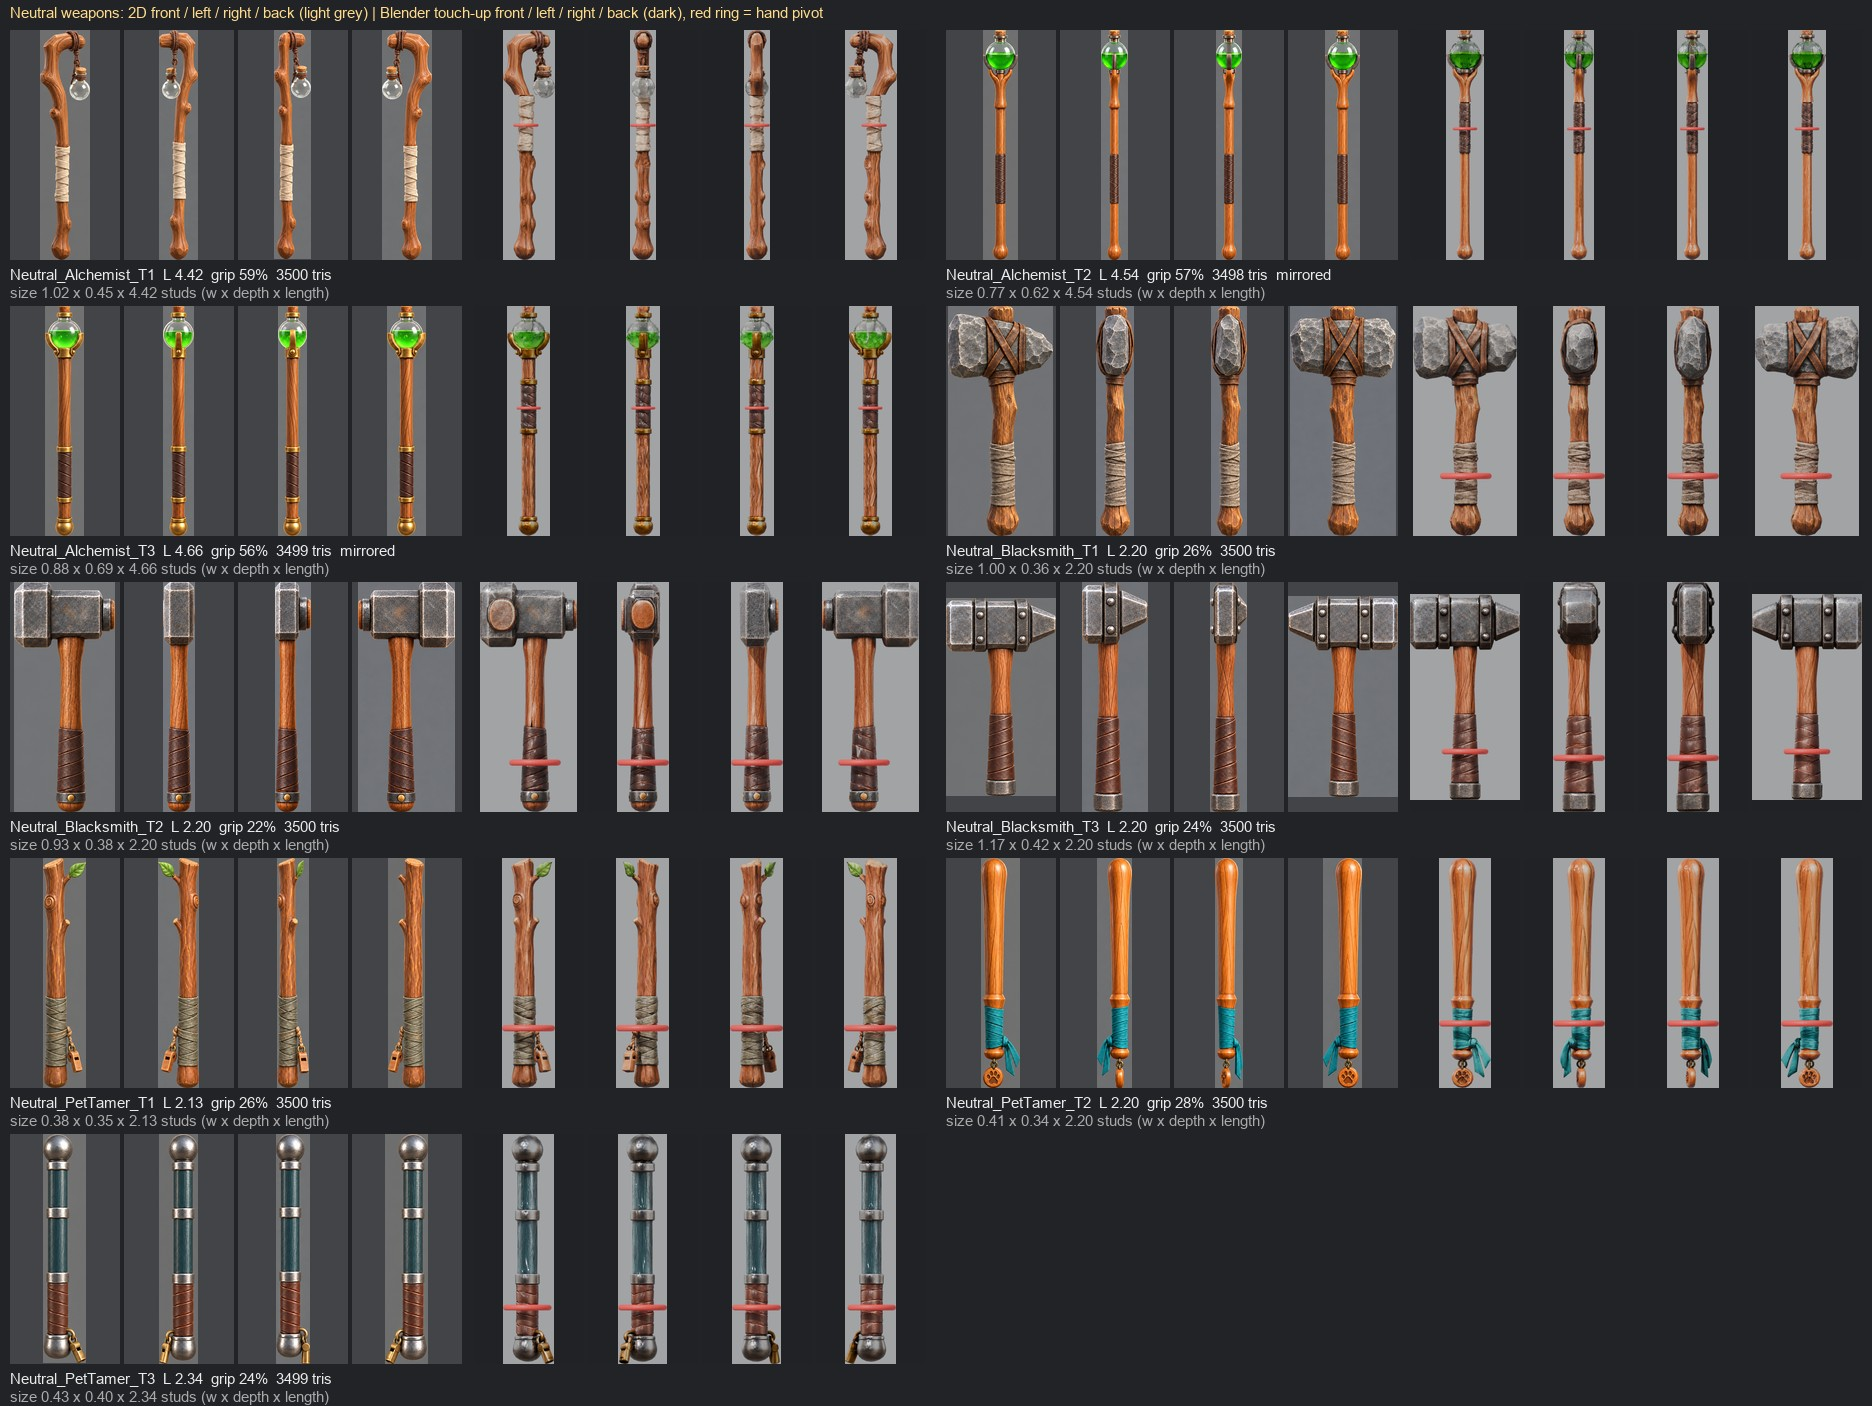
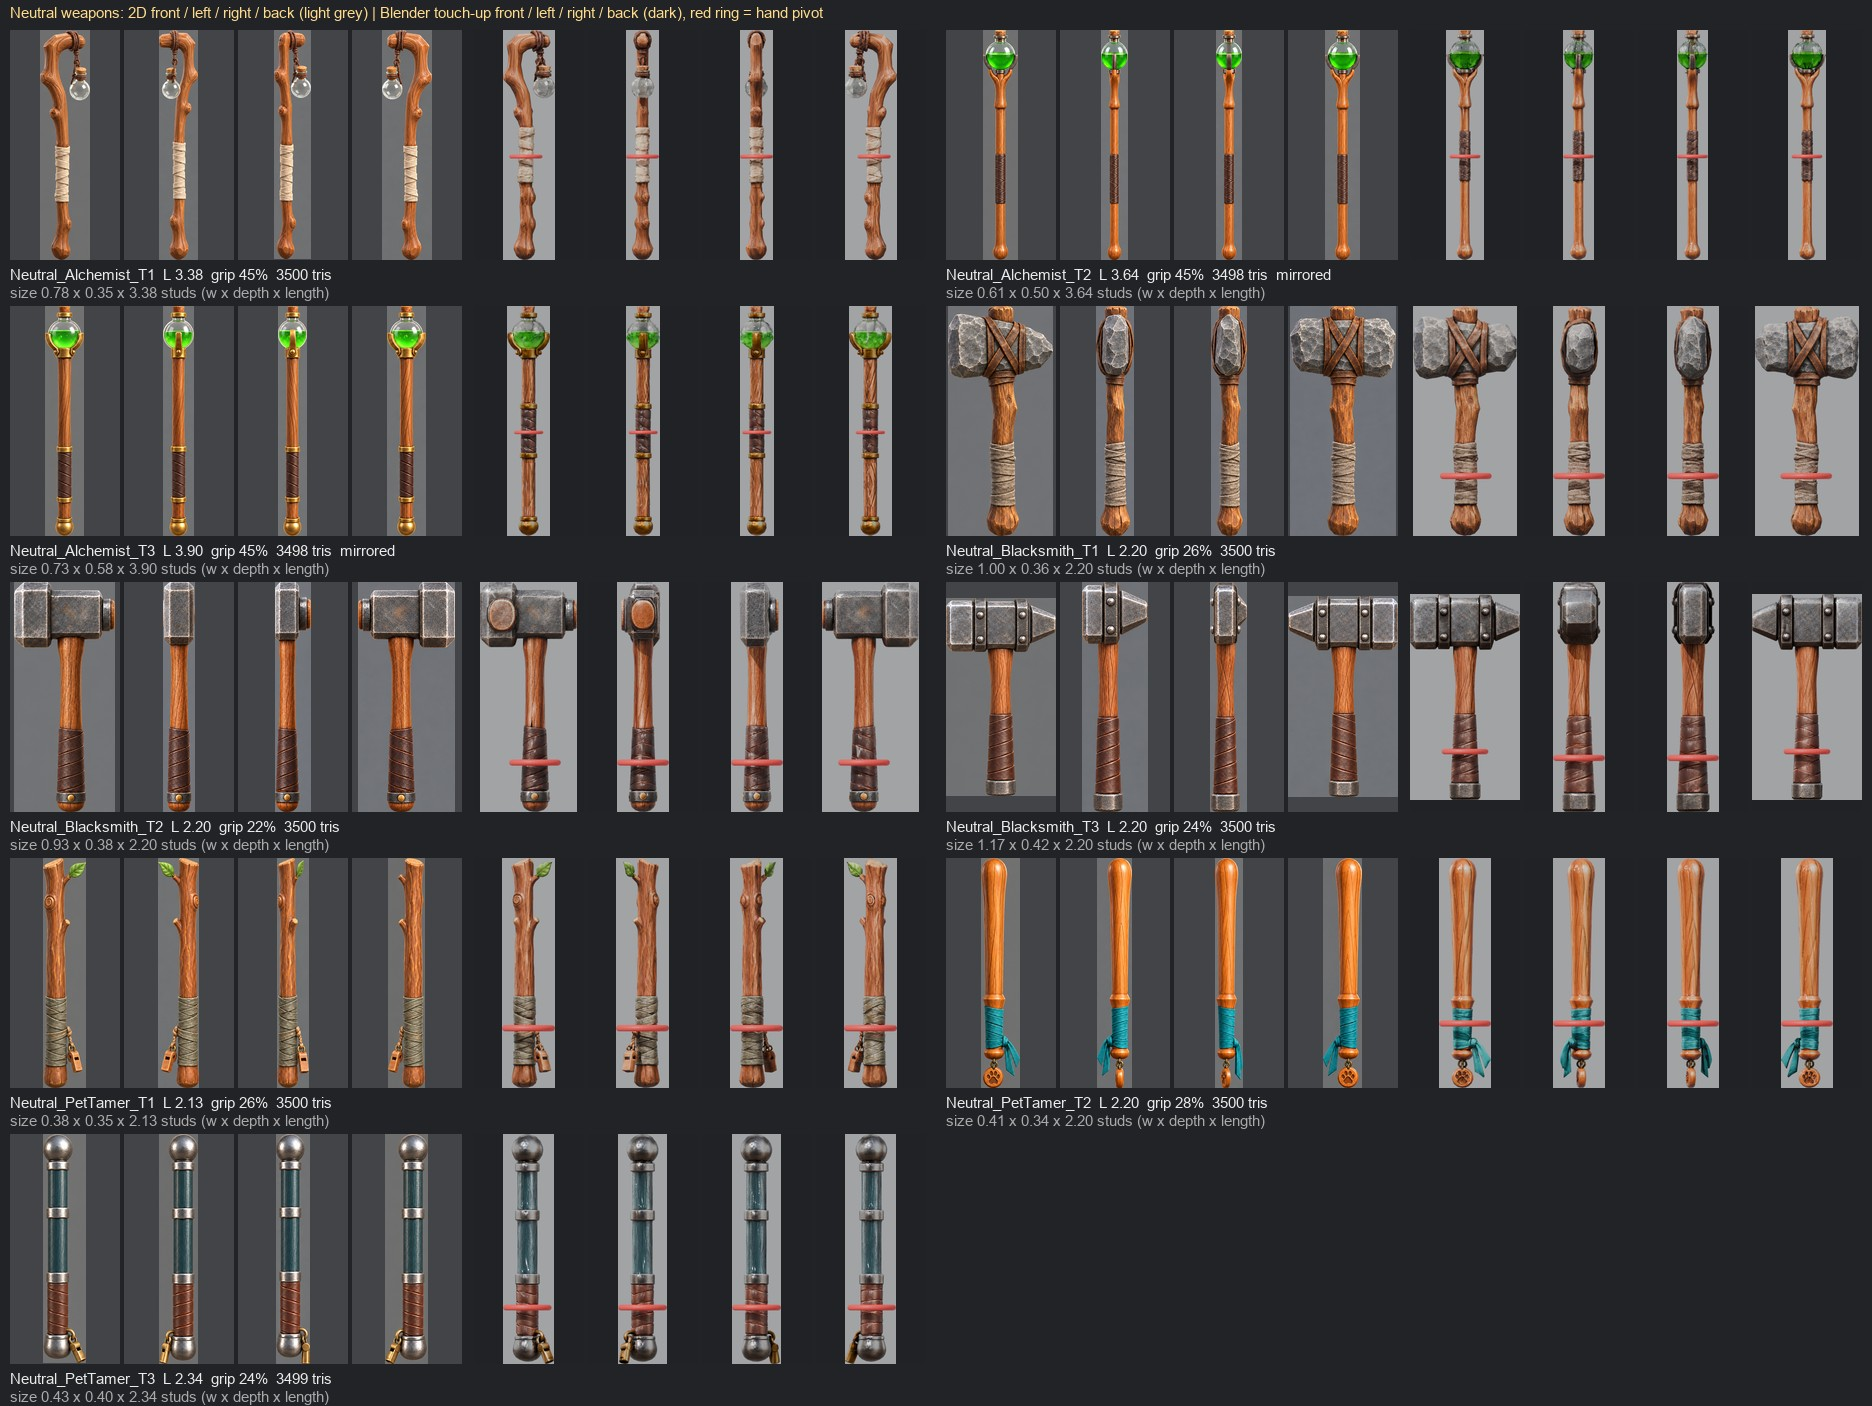
A23-142 지팡이 9개 길이 0.65~0.75H + 손 = 감은 곳 가운데 표

diff --git a/tools/tripo_weapon_touchup.py b/tools/tripo_weapon_touchup.py
@@ -38,13 +38,13 @@ import proj_bake as PB  # noqa: E402
 KIND = {  # class -> (kind, lengths T1..T3, hand share from the bottom)
     "Paladin": ("sword", (3.85, 3.95, 4.05), 0.145),
     "Berserker": ("darksword", (4.15, 4.25, 4.35), 0.195),
-    "LightMage": ("staff", (4.42, 4.54, 4.66), 0.66),
-    "DarkMage": ("staff", (4.42, 4.54, 4.66), 0.66),
+    "LightMage": ("staff", (3.38, 3.64, 3.90), 0.66),        # SPEC A23-142: 0.65 / 0.70 / 0.75 x H 5.2 incl. the orb
+    "DarkMage": ("staff", (3.38, 3.64, 3.90), 0.66),        # SPEC A23-142: 0.65 / 0.70 / 0.75 x H 5.2 incl. the orb
     "Ranger": ("bow", (3.1, 3.36, 3.61), 0.5),
     "ShadowHunter": ("bow", (2.33, 2.52, 2.71), 0.5),
     "Blacksmith": ("hammer", (2.2, 2.2, 2.2), 0.26),
     "PetTamer": ("baton", (2.13, 2.2, 2.34), 0.3),
-    "Alchemist": ("staff", (4.42, 4.54, 4.66), 0.62),   # the approved 2D is a staff with a flask; the game holds a flask today
+    "Alchemist": ("staff", (3.38, 3.64, 3.90), 0.62),   # flask staff (2D); A23-142 length like the mages
 }
 
 # the hand = the middle of the wrapped grip in the approved 2D front (share of the height from the bottom, measured on
@@ -67,11 +67,13 @@ WRAP = {
 # band (wrap + its rings, share of the height measured on the Tripo width profile) is cut out, moved along the staff so
 # its middle sits at <target> studs from the foot, the hole is filled by stretching the bare shaft just below it (knots
 # and branches stay where they are). (lo, hi, target studs)
-MOVE = {
-    "Weapon_Halo_LightMage_T1": (0.365, 0.515, 2.63), "Weapon_Halo_LightMage_T3": (0.235, 0.455, 2.63),
-    "Weapon_Horns_DarkMage_T1": (0.295, 0.515, 2.53), "Weapon_Horns_DarkMage_T3": (0.265, 0.495, 2.53),
-    "Weapon_Neutral_Alchemist_T1": (0.245, 0.495, 2.59), "Weapon_Neutral_Alchemist_T2": (0.235, 0.455, 2.59),
-    "Weapon_Neutral_Alchemist_T3": (0.135, 0.385, 2.59),
+MOVE = {   # SPEC A23-142 (user 10/12): the hand holds the wrap in the MIDDLE of the staff, wrap centre 40-55 % of the
+    # length from the foot; wraps drawn lower (LightMage T3, DarkMage T1 / T3, Alchemist T1-T3) move up to 45 %, the others
+    # (LightMage T1 44.5 %, T2 50.5 %, DarkMage T2 55 %) stay. (lo, hi = the wrap band incl. rings, share; target share)
+    "Weapon_Halo_LightMage_T3": (0.235, 0.455, 0.45),
+    "Weapon_Horns_DarkMage_T1": (0.295, 0.515, 0.45), "Weapon_Horns_DarkMage_T3": (0.265, 0.495, 0.45),
+    "Weapon_Neutral_Alchemist_T1": (0.245, 0.495, 0.45), "Weapon_Neutral_Alchemist_T2": (0.235, 0.455, 0.45),
+    "Weapon_Neutral_Alchemist_T3": (0.135, 0.385, 0.45),
 }
 
 
@@ -324,8 +326,8 @@ V = np.array([v.co[:] for v in me.vertices])
 z0 = V[:, 2].min()
 if a.job in MOVE and not a.no_move:
     lo_s, hi_s, tgt = MOVE[a.job]
-    mlo, mhi, md = move_wrap(me, z0, length, lo_s, hi_s, tgt)
-    stats["wrap_moved"] = {"from": [round(mlo - z0, 3), round(mhi - z0, 3)], "up": round(md, 3), "centre_now": tgt}
+    mlo, mhi, md = move_wrap(me, z0, length, lo_s, hi_s, tgt * length)
+    stats["wrap_moved"] = {"from": [round(mlo - z0, 3), round(mhi - z0, 3)], "up": round(md, 3), "centre_now": round(tgt * length, 3)}
     V = np.array([v.co[:] for v in me.vertices])
     z0 = V[:, 2].min()
 zg = z0 + hand * length                                     # the grip height (share of the length)

diff --git a/docs/design/weapon_grip_heights_2026-10-12.md b/docs/design/weapon_grip_heights_2026-10-12.md
@@ -54,3 +54,20 @@
 | Neutral_Alchemist_T3 | 2.59 | +1.38 | 55.6 |
 
 LightMage T2·DarkMage T2는 감은 곳이 이미 범위 안 → 그대로(감은 곳 가운데 피벗).
+
+## 10/12 저녁: SPEC A23-142 (사용자) — 지팡이 9개 길이·쥐는 자리 (이게 최신, 위 '오후' 표는 버림)
+마법사·연금술사 지팡이 길이 = 구슬·장식까지 **0.65 / 0.70 / 0.75 × H(5.2)** = 3.38 / 3.64 / 3.90칸(T1/T2/T3). Tripo 메시를 통째로 크기 조절(2D의 가는 비율 그대로).
+쥐는 자리 = 막대 가운데 감은 곳, 발끝에서 40~55%. 원래 그 안이던 3개(LightMage T1 44.5%, T2 50.5%, DarkMage T2 55%)는 그대로, 나머지 6개는 감은 곳(천+위아래 고리)을 통째로 옮겨 가운데를 **45%**에 둠(빈 자리는 원래 막대 복사로 채움). **피벗(GLB 원점) = 감은 곳 가운데 = 손**, 긴 축 +Y, 앞 -Z.
+시트: `art/review/img4/staff_a23_142_1012.jpg` (실제 칸 비율, 빨간 줄 = 손).
+
+| 무기 | 길이(칸) | 길이/H | 손 = 감은 곳 가운데 (발끝에서 칸) | 손 % | 감은 곳 옮김 |
+|---|---|---|---|---|---|
+| Halo_LightMage_T1 | 3.38 | 0.65 | 1.50 | 44.5 | 그대로 |
+| Halo_LightMage_T2 | 3.64 | 0.70 | 1.84 | 50.5 | 그대로 |
+| Halo_LightMage_T3 | 3.90 | 0.75 | 1.75 | 45.0 | +0.41칸 |
+| Horns_DarkMage_T1 | 3.38 | 0.65 | 1.52 | 45.0 | +0.15칸 |
+| Horns_DarkMage_T2 | 3.64 | 0.70 | 2.00 | 55.0 | 그대로 |
+| Horns_DarkMage_T3 | 3.90 | 0.75 | 1.75 | 45.0 | +0.27칸 |
+| Neutral_Alchemist_T1 | 3.38 | 0.65 | 1.52 | 45.0 | +0.27칸 |
+| Neutral_Alchemist_T2 | 3.64 | 0.70 | 1.64 | 45.0 | +0.38칸 |
+| Neutral_Alchemist_T3 | 3.90 | 0.75 | 1.75 | 45.0 | +0.74칸 |
